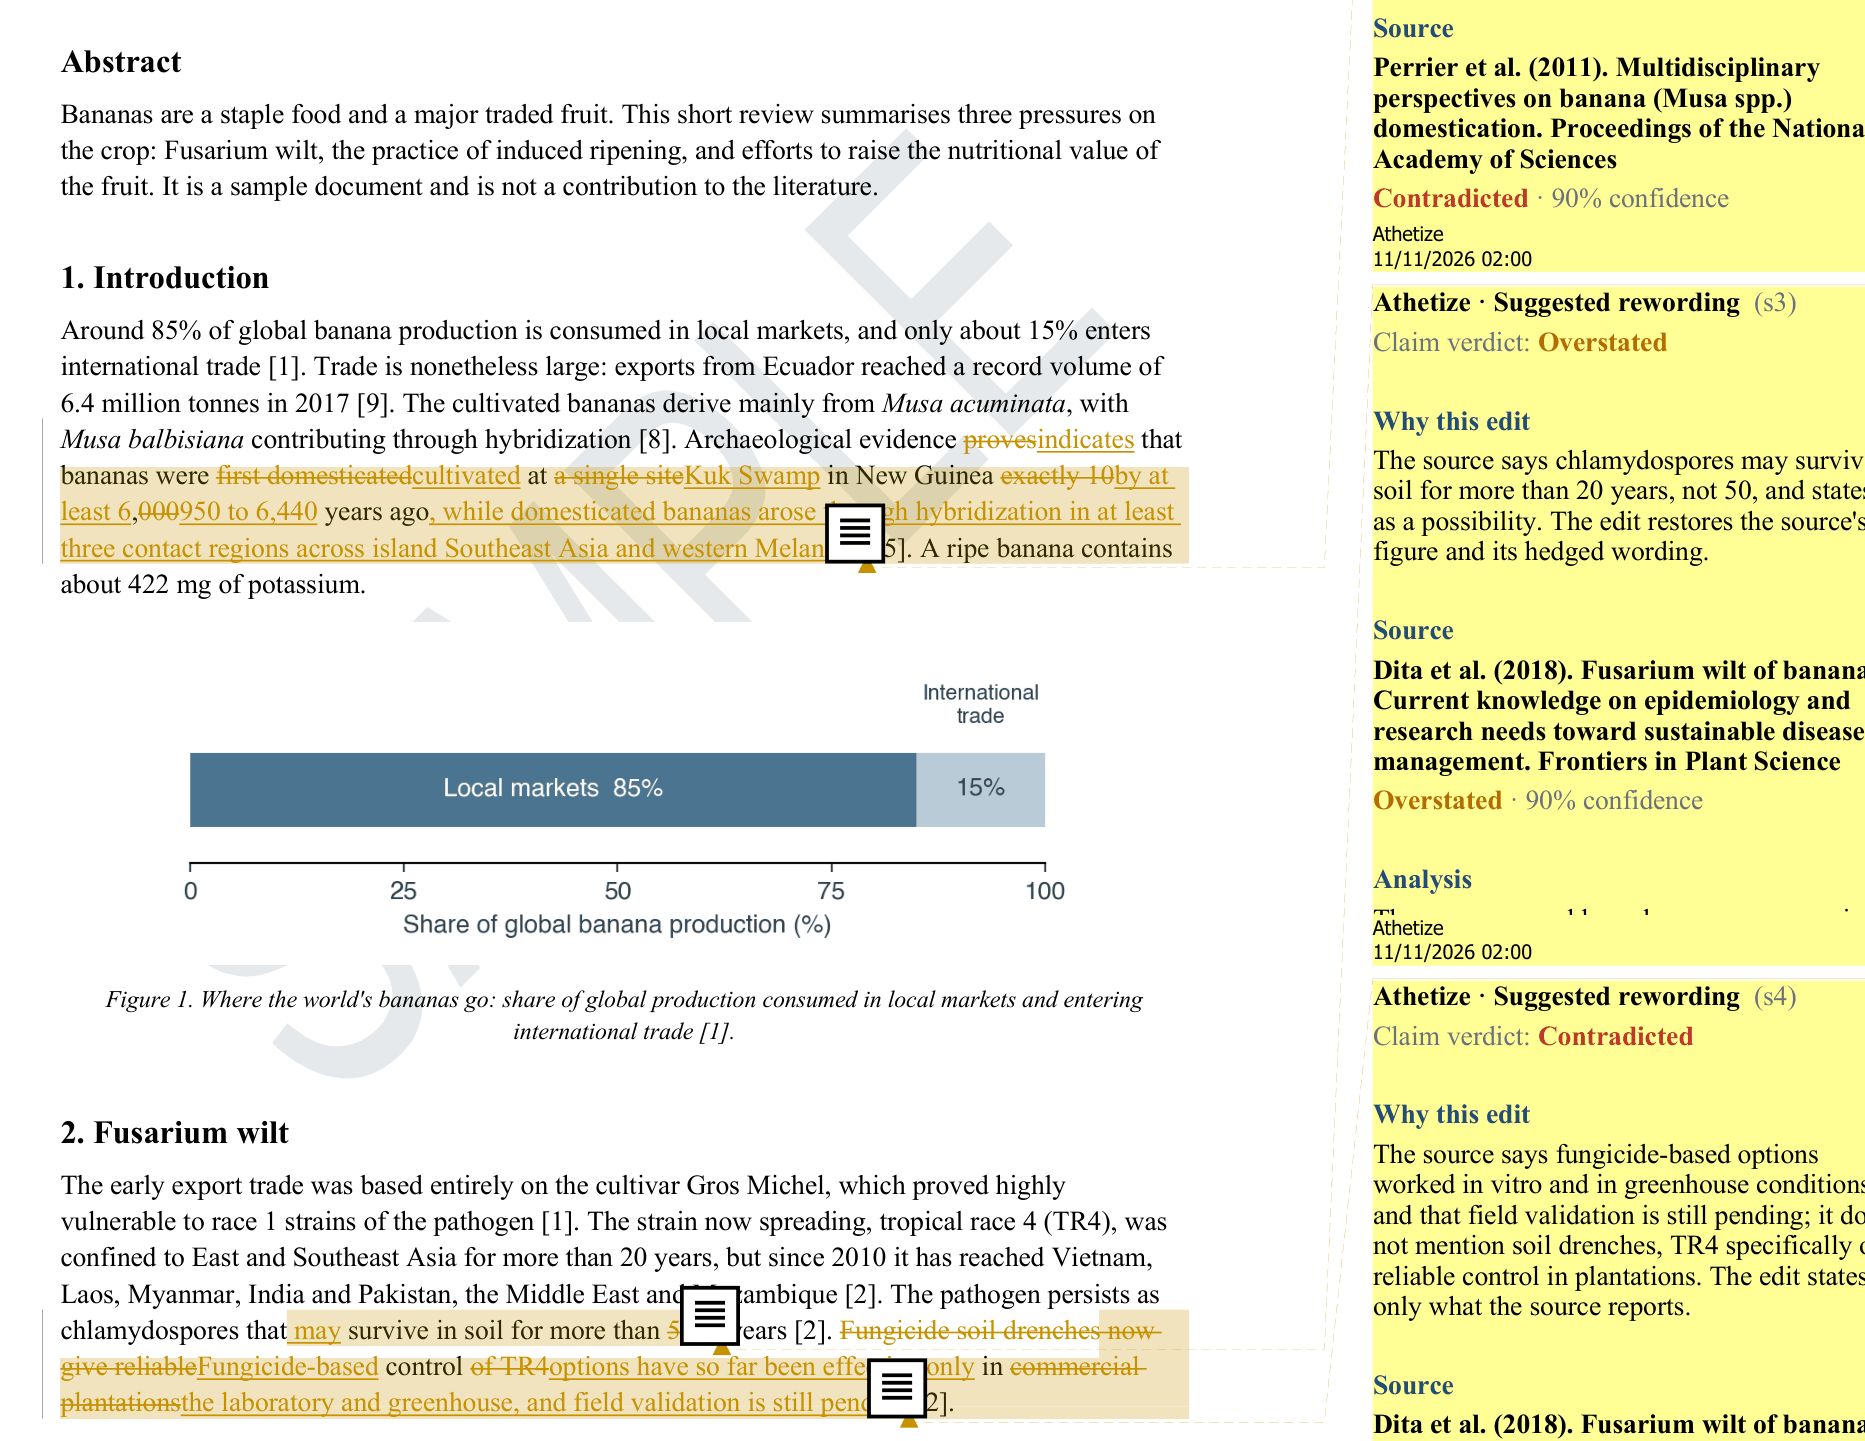
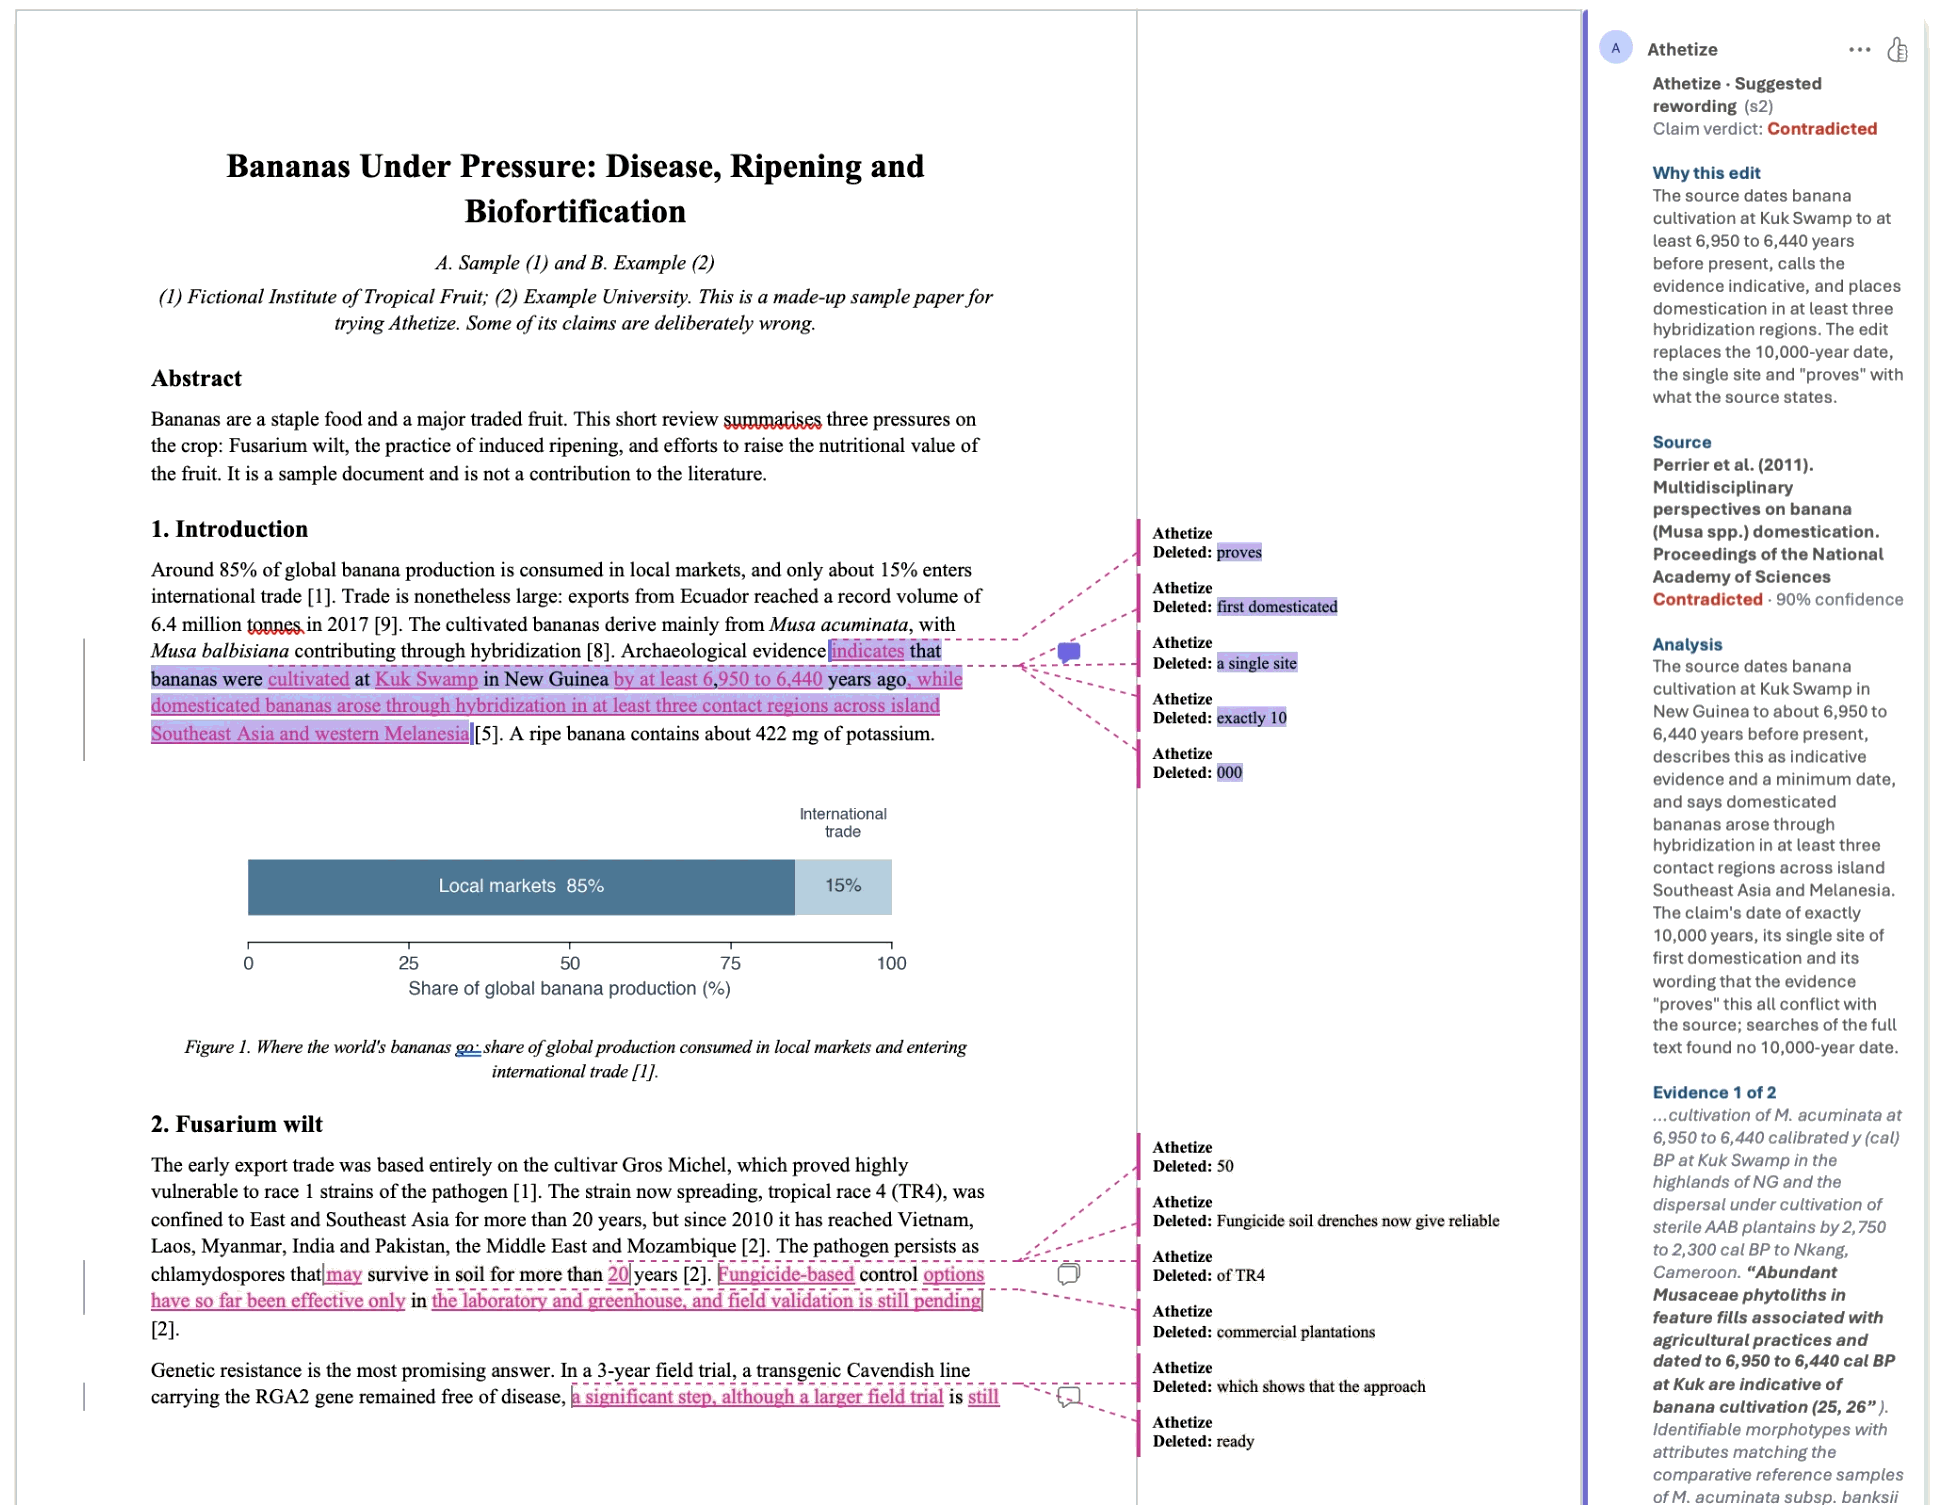
docs: Word screenshot taken in Microsoft Word

diff --git a/CHANGELOG.md b/CHANGELOG.md
@@ -7,6 +7,7 @@ All notable changes to Athetize will be documented in this file.
 ### Changed
 - The README screenshots are sharp: PNG at twice the pixel density, where they were 800-pixel JPEGs that GitHub stretched
 - The social preview image shows two result labels, "Claim supported" and "Claim not supported", in place of a card with text
+- The README's Word screenshot is taken in Microsoft Word, where it was a LibreOffice rendering whose comment boxes covered the text
 - The privacy policy says that a missing Python package is installed from PyPI only after the person agrees, and its summary no longer says "Nothing is kept" just before saying where results are written
 
 ## [0.8.8] - 2026-11-11

diff --git a/README.md b/README.md
@@ -92,7 +92,7 @@ The Sources tab shows where each source's text came from and lets you add the mi
 
 ![The Sources tab: each reference, where its text came from and the claims that cite it](docs/images/report-sources.png)
 
-The Word copy, shown here in LibreOffice:
+The Word copy, open in Microsoft Word:
 
 ![The Word copy: tracked changes with a comment explaining each one](docs/images/word-export.png)
 
